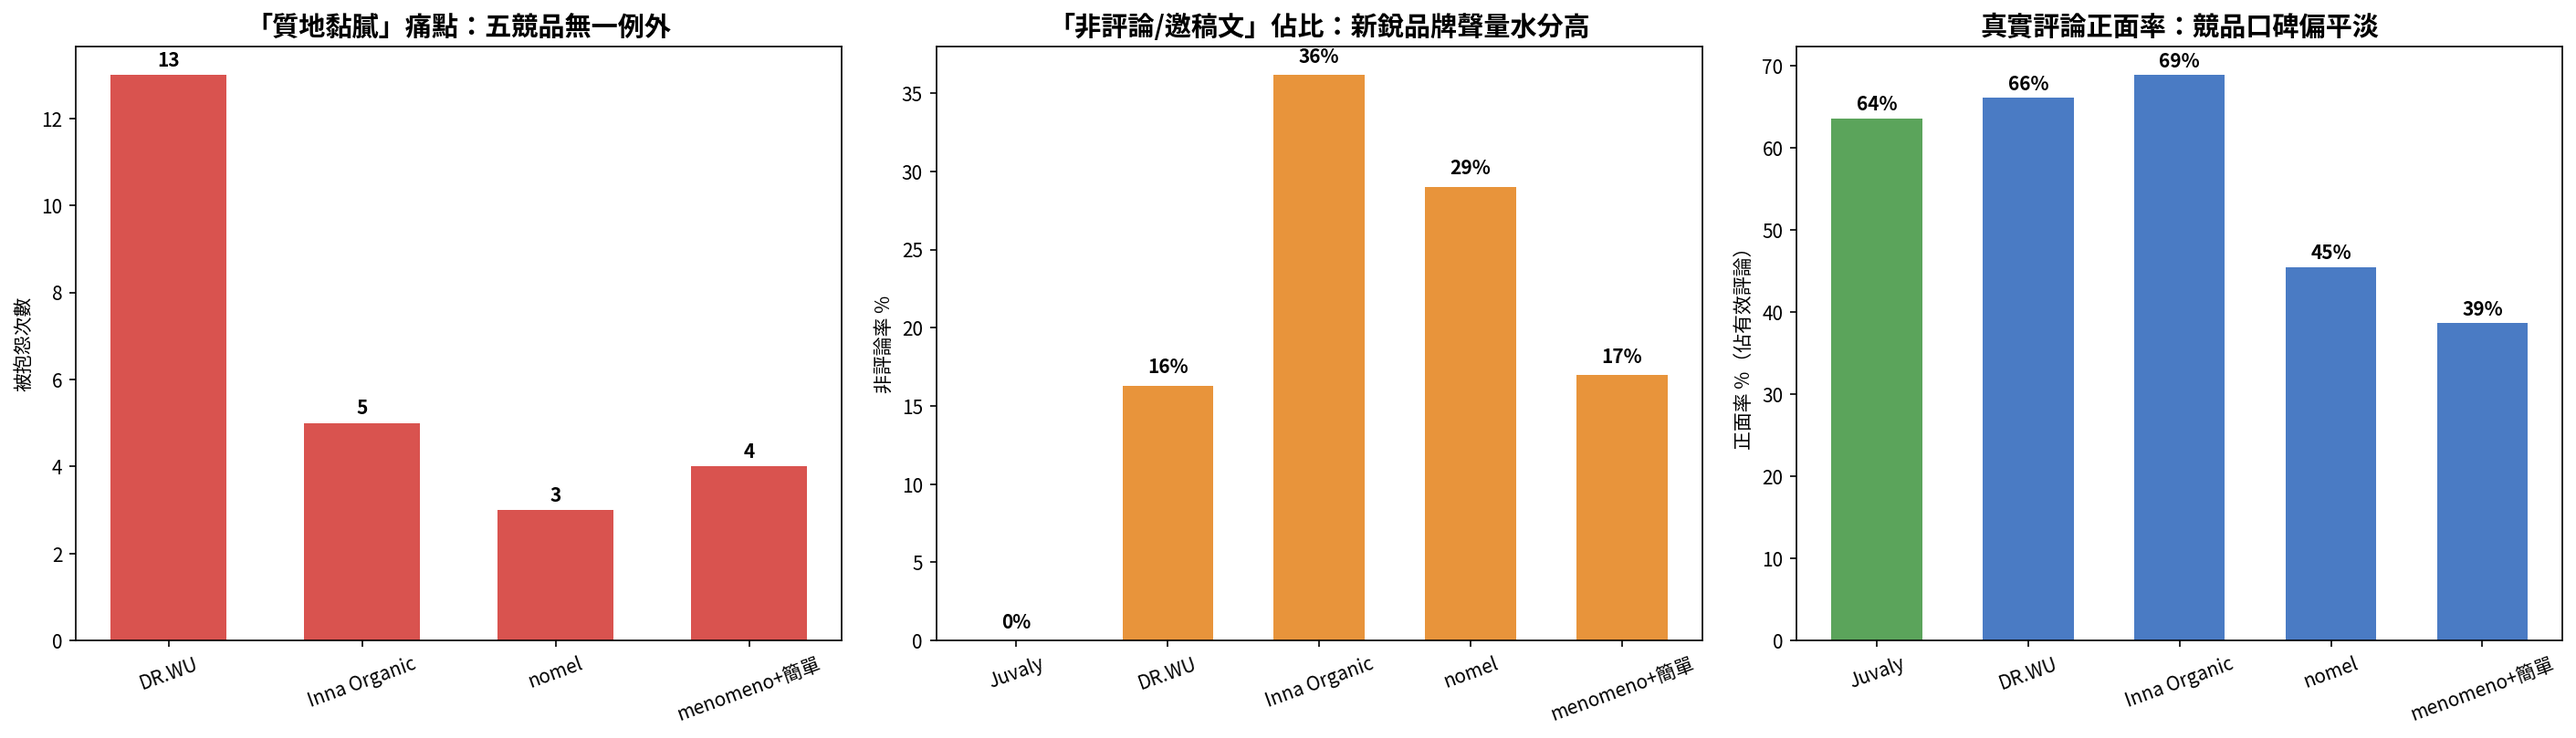
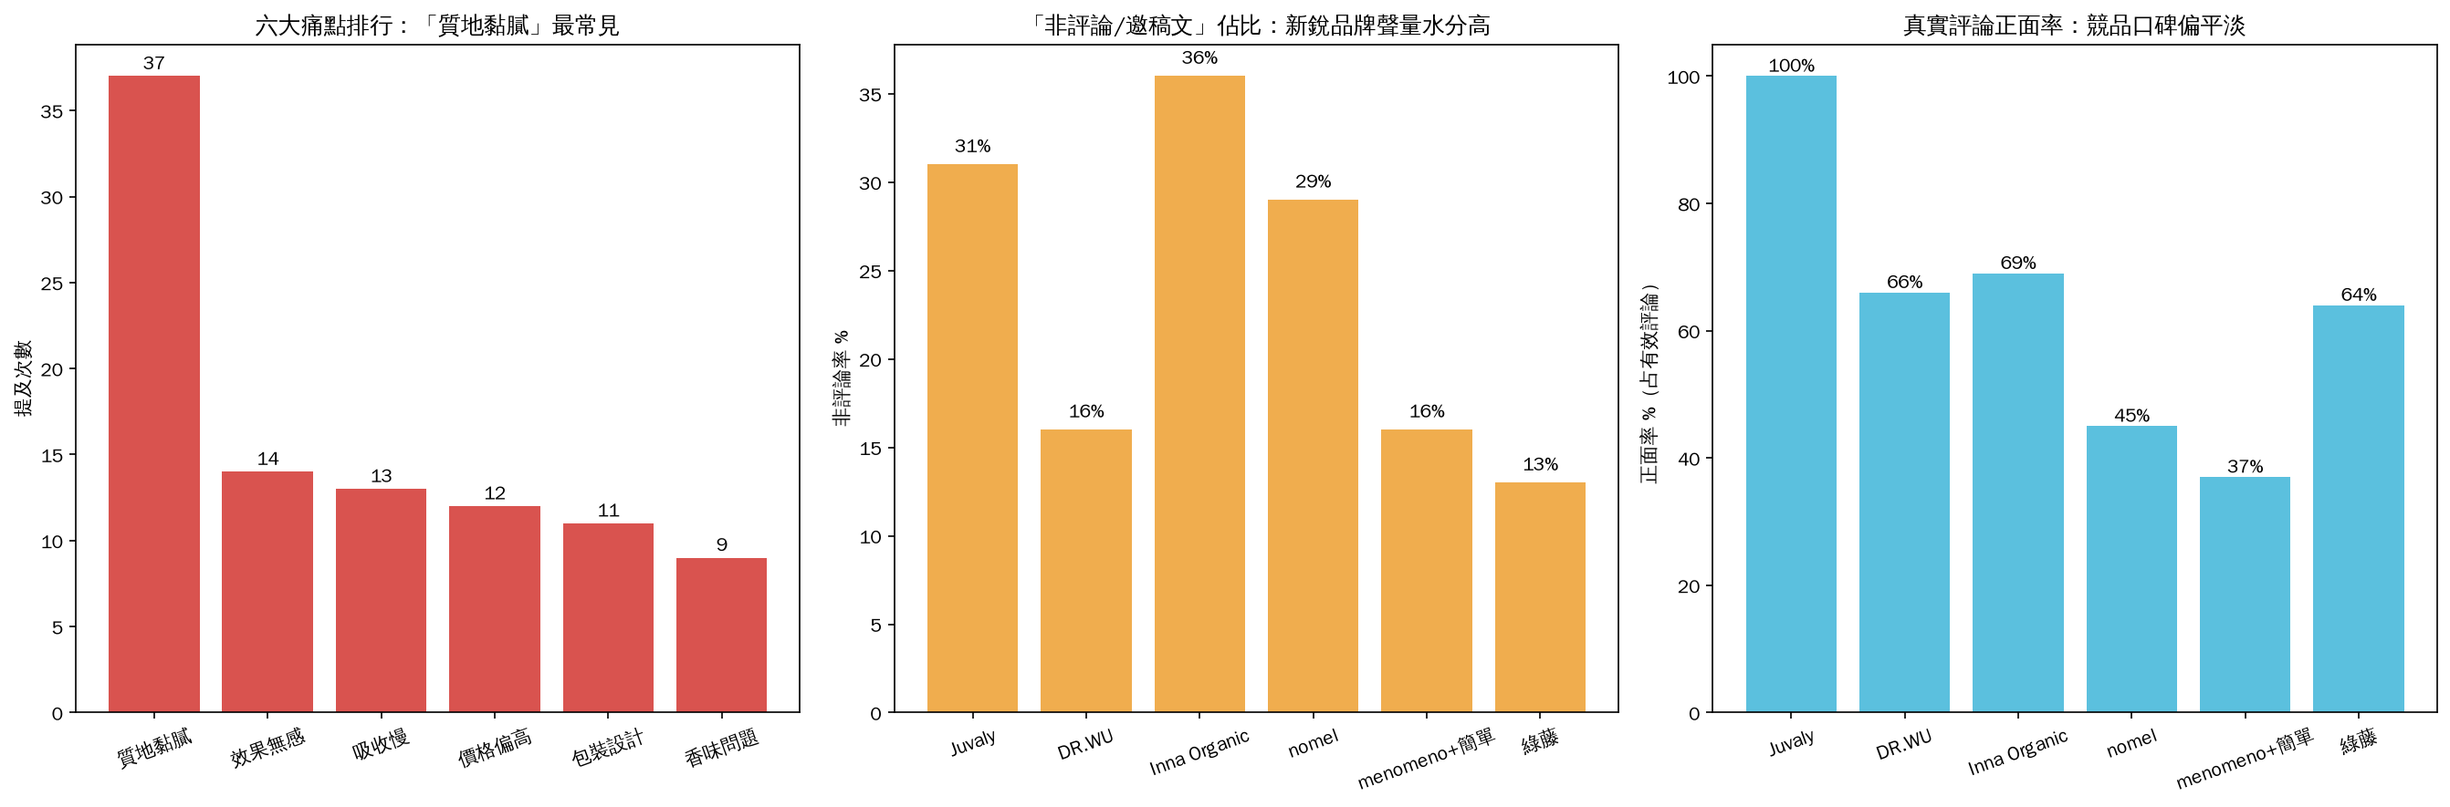
Regenerate stale demo image from current data
analyze.py had no plotting code to produce outputs/final_competitor_analysis.png,
so it still reflected an old data snapshot after C-1/C-3/C-4 fixed the underlying
CSVs -- it omitted Juvaly and 綠藤 entirely, and the pain-point panel used the old,
pre-normalize_pain() methodology.

Added plot_summary(), called at the end of main(), which regenerates the image from
the current competitor_summary_final.csv and pain_point_ranking.csv: six-brand
non-review-rate and positive-rate panels, plus the full six-category pain-point
ranking in place of the old single-category breakdown. Updated known-issues.md C-1
and the README Demo caption to match.

diff --git a/scripts/analyze.py b/scripts/analyze.py
@@ -5,10 +5,12 @@ import matplotlib.pyplot as plt
 import matplotlib, os
 from matplotlib import font_manager
 
-for fp in ["/usr/share/fonts/truetype/noto/NotoSansCJK-Regular.ttc"]:
+for fp in ["/usr/share/fonts/truetype/noto/NotoSansCJK-Regular.ttc",
+           "/usr/share/fonts/truetype/wqy/wqy-zenhei.ttc"]:
     if os.path.exists(fp):
         font_manager.fontManager.addfont(fp)
         matplotlib.rcParams['font.family'] = font_manager.FontProperties(fname=fp).get_name()
+        break
 matplotlib.rcParams['axes.unicode_minus'] = False
 
 FILES = {
@@ -60,6 +62,37 @@ def main():
     pain_rank.to_csv('../outputs/pain_point_ranking.csv',index=False,encoding='utf-8-sig')
     print()
     print(pain_rank.to_string(index=False))
+
+    plot_summary(summary, pain_rank)
+
+def plot_summary(summary, pain_rank):
+    """六大痛點排行 + 各品牌非評論率／正面率，存成 outputs/final_competitor_analysis.png"""
+    fig, axes = plt.subplots(1, 3, figsize=(18, 6))
+
+    axes[0].bar(pain_rank['痛點'], pain_rank['出現次數'], color='#d9534f')
+    axes[0].set_title('六大痛點排行：「質地黏膩」最常見')
+    axes[0].set_ylabel('提及次數')
+    for i, v in enumerate(pain_rank['出現次數']):
+        axes[0].text(i, v + 0.4, str(v), ha='center')
+    axes[0].tick_params(axis='x', rotation=20)
+
+    axes[1].bar(summary['品牌'], summary['非評論率%'], color='#f0ad4e')
+    axes[1].set_title('「非評論/邀稿文」佔比：新銳品牌聲量水分高')
+    axes[1].set_ylabel('非評論率 %')
+    for i, v in enumerate(summary['非評論率%']):
+        axes[1].text(i, v + 0.7, f'{v}%', ha='center')
+    axes[1].tick_params(axis='x', rotation=20)
+
+    axes[2].bar(summary['品牌'], summary['正面率%'], color='#5bc0de')
+    axes[2].set_title('真實評論正面率：競品口碑偏平淡')
+    axes[2].set_ylabel('正面率 %（占有效評論）')
+    for i, v in enumerate(summary['正面率%']):
+        axes[2].text(i, v + 0.7, f'{v}%', ha='center')
+    axes[2].tick_params(axis='x', rotation=20)
+
+    plt.tight_layout()
+    plt.savefig('../outputs/final_competitor_analysis.png', dpi=150, bbox_inches='tight')
+    plt.close(fig)
 
 if __name__=="__main__":
     main()

diff --git a/docs/known-issues.md b/docs/known-issues.md
@@ -13,7 +13,7 @@ be defects. B-items are unverified. C-items are defects. D-items are documentati
 | B-1 | Sentiment agreement with human labels is unknown | Verified | Below threshold — 69.7–72.7% |
 | B-2 | Pain-point and highlight labelling never validated | Unverified | Open |
 | B-3 | Labelling stability across runs never tested | Verified | Mostly stable, not deterministic |
-| C-1 | Committed summary disagreed with committed data | Defect | Fixed |
+| C-1 | Committed summary disagreed with committed data; demo image was stale | Defect | Fixed |
 | C-2 | `analyze.py` could not run against the committed data | Defect | Fixed |
 | C-3 | `normalize_pain()` was defined but never called | Defect | Fixed |
 | C-4 | 綠藤 data was committed but not analysed | Defect | Fixed |
@@ -113,9 +113,12 @@ the committed `juvaly_cosme_labeled.csv` (C-2), and 綠藤 was never included (C
 DR.WU / Inna Organic / 綠藤 / menomeno+簡單 / nomel / Juvaly, matching independent recomputation
 in `docs/metrics.md`.
 
-**Not fixed by this.** `outputs/final_competitor_analysis.png` was produced from the old snapshot
-and was not regenerated — `analyze.py` has no plotting code in `main()` to regenerate it from.
-The demo image should still be treated as stale.
+**Also fixed.** `outputs/final_competitor_analysis.png` was produced from the old snapshot and
+`analyze.py` had no plotting code in `main()` to regenerate it. A `plot_summary()` function was
+added, called at the end of `main()`, and the image was regenerated against the current
+`competitor_summary_final.csv` and `pain_point_ranking.csv` — all six brands now appear (the old
+image omitted Juvaly and 綠藤), and the pain-point panel reflects the ranking produced by C-3
+rather than a single category tallied under the old, pre-fix method.
 
 ---
 

diff --git a/README.md b/README.md
@@ -12,8 +12,8 @@ complaint about greasiness. **Knowing whether the labels are any good**, which i
 labelled validation set gates the batch run rather than following it.
 
 What is here is a seven-stage pipeline, a codebook, 500 labelled reviews across six brands, and a
-record of which committed figures can be reproduced from the committed data. As of 2026-09-14,
-all of them can, except one figure — see [Demo](#demo).
+record of which committed figures can be reproduced from the committed data. As of 2026-09-19,
+every committed figure, including the demo image, reproduces from `scripts/analyze.py`.
 
 ---
 
@@ -21,11 +21,10 @@ all of them can, except one figure — see [Demo](#demo).
 
 ![Competitor sentiment and pain-point comparison](outputs/final_competitor_analysis.png)
 
-*Aggregate output: sentiment distribution and pain-point ranking across the six brands. This
-figure was produced from an earlier data snapshot and has not been regenerated —
-`scripts/analyze.py` has no plotting code path to produce it from. The underlying numbers
-(`outputs/competitor_summary_final.csv`, `outputs/pain_point_ranking.csv`) are current; only this
-image is stale. See [`docs/known-issues.md`](docs/known-issues.md) C-1.*
+*Aggregate output: pain-point ranking and per-brand non-review rate and positive rate across all
+six brands. Regenerated from the current `competitor_summary_final.csv` and
+`pain_point_ranking.csv` by `scripts/analyze.py`'s `plot_summary()`. See
+[`docs/known-issues.md`](docs/known-issues.md) C-1.*
 
 ---
 
